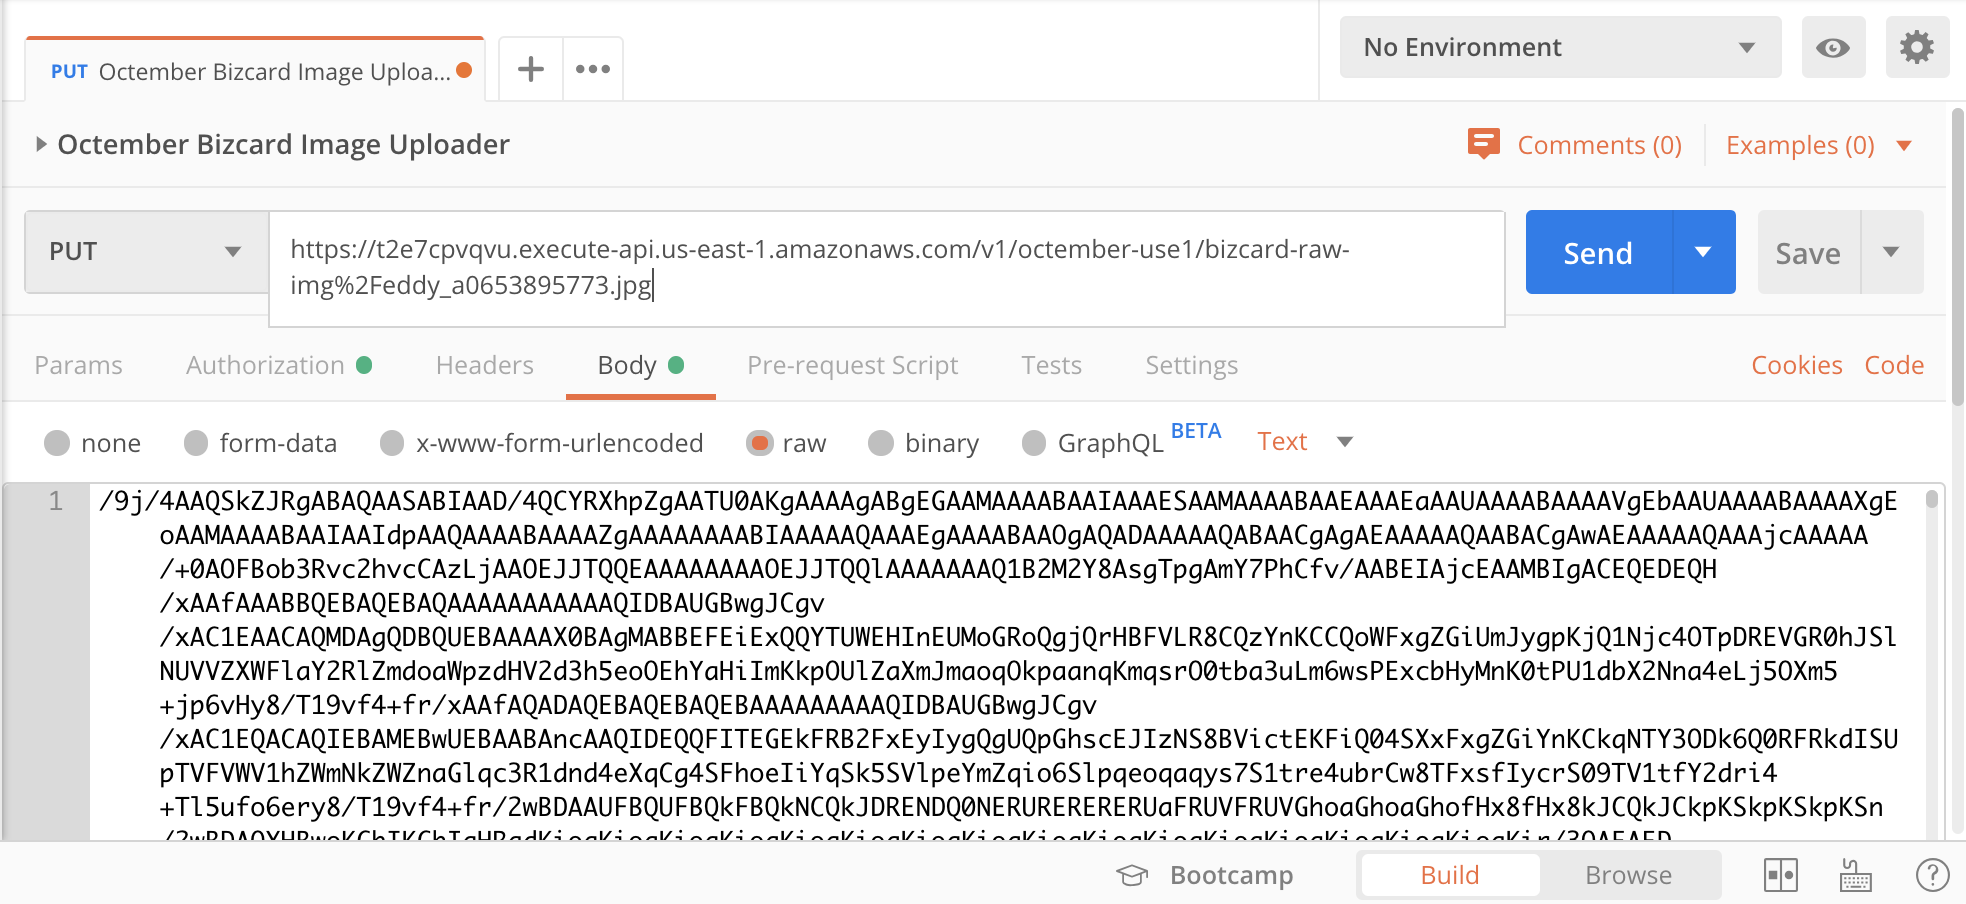
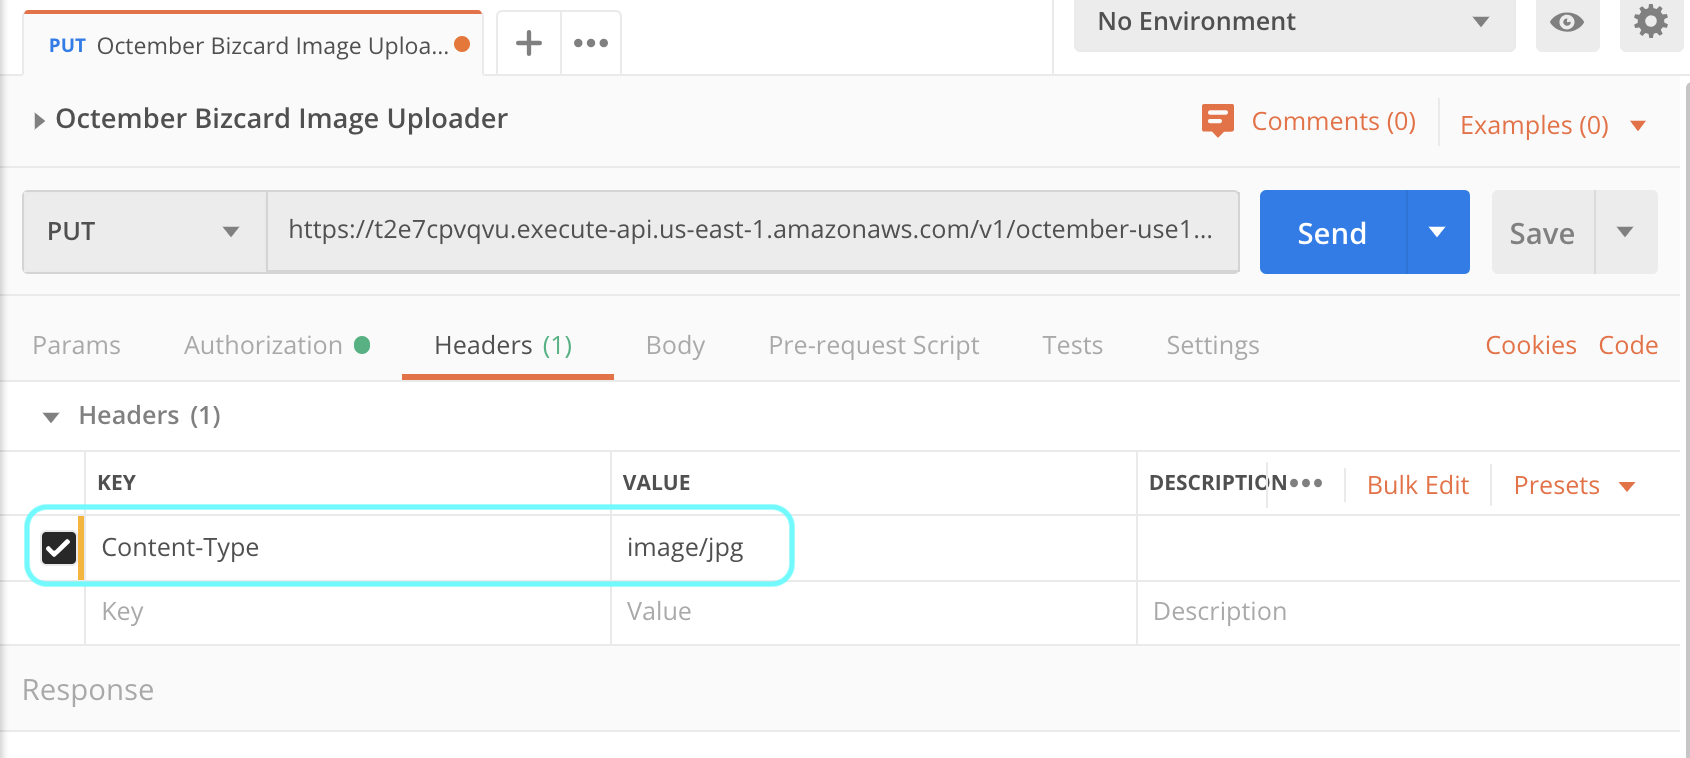
update how to upload bizcard image

diff --git a/README.md b/README.md
@@ -486,10 +486,14 @@ s3 destination의 prefix를 `bizcard-text/` 로 설정함
 - **Postman을 이용해서 이미지 업로드 API로 명함을 등록하는 방법**
 
   1. Postman에서 아래 그림과 같이 Authorization 탭에서 TYPE을 AWS Signature로 선택하고, S3 Read/Write 권한을 가진 사용자의 
- AccessKey, SecretKey를 등록하고, aws region을 설정함<br/>
+ AccessKey, SecretKey를 등록하고, AWS Region을 설정함<br/>
   ![octember-bizcard-img-uploader-01](resources/octember-bizcard-img-uploader-01.png)
-  2. 아래 그림과 깉이 Postman의 Body 탭에서 raw를 선택 한 후, 명함 이미지를 base64로 encoding한 값을 붙여넣고, Send 버튼을 눌러서 PUT 메소드를 실행함<br/>
+  2. Headers 탭을 선택하고, Key, Value를 아래 그림과 같이 추가함<br/>
   ![octember-bizcard-img-uploader-02](resources/octember-bizcard-img-uploader-02.png)
+  3. Body 탭에서 binary를 선택하고, Select File 버튼을 눌러서, 전송할 파일을 추가함<br/>
+  ![octember-bizcard-img-uploader-02](resources/octember-bizcard-img-uploader-03.png)
+  4. 전송할 이미지 파일이 추가한 후, Send 버튼을 눌러서 PUT 메소드를 실행함<br/>
+  ![octember-bizcard-img-uploader-02](resources/octember-bizcard-img-uploader-04.png)
 
 - **demo용 클라이언트를 사용하는 방법**
 
